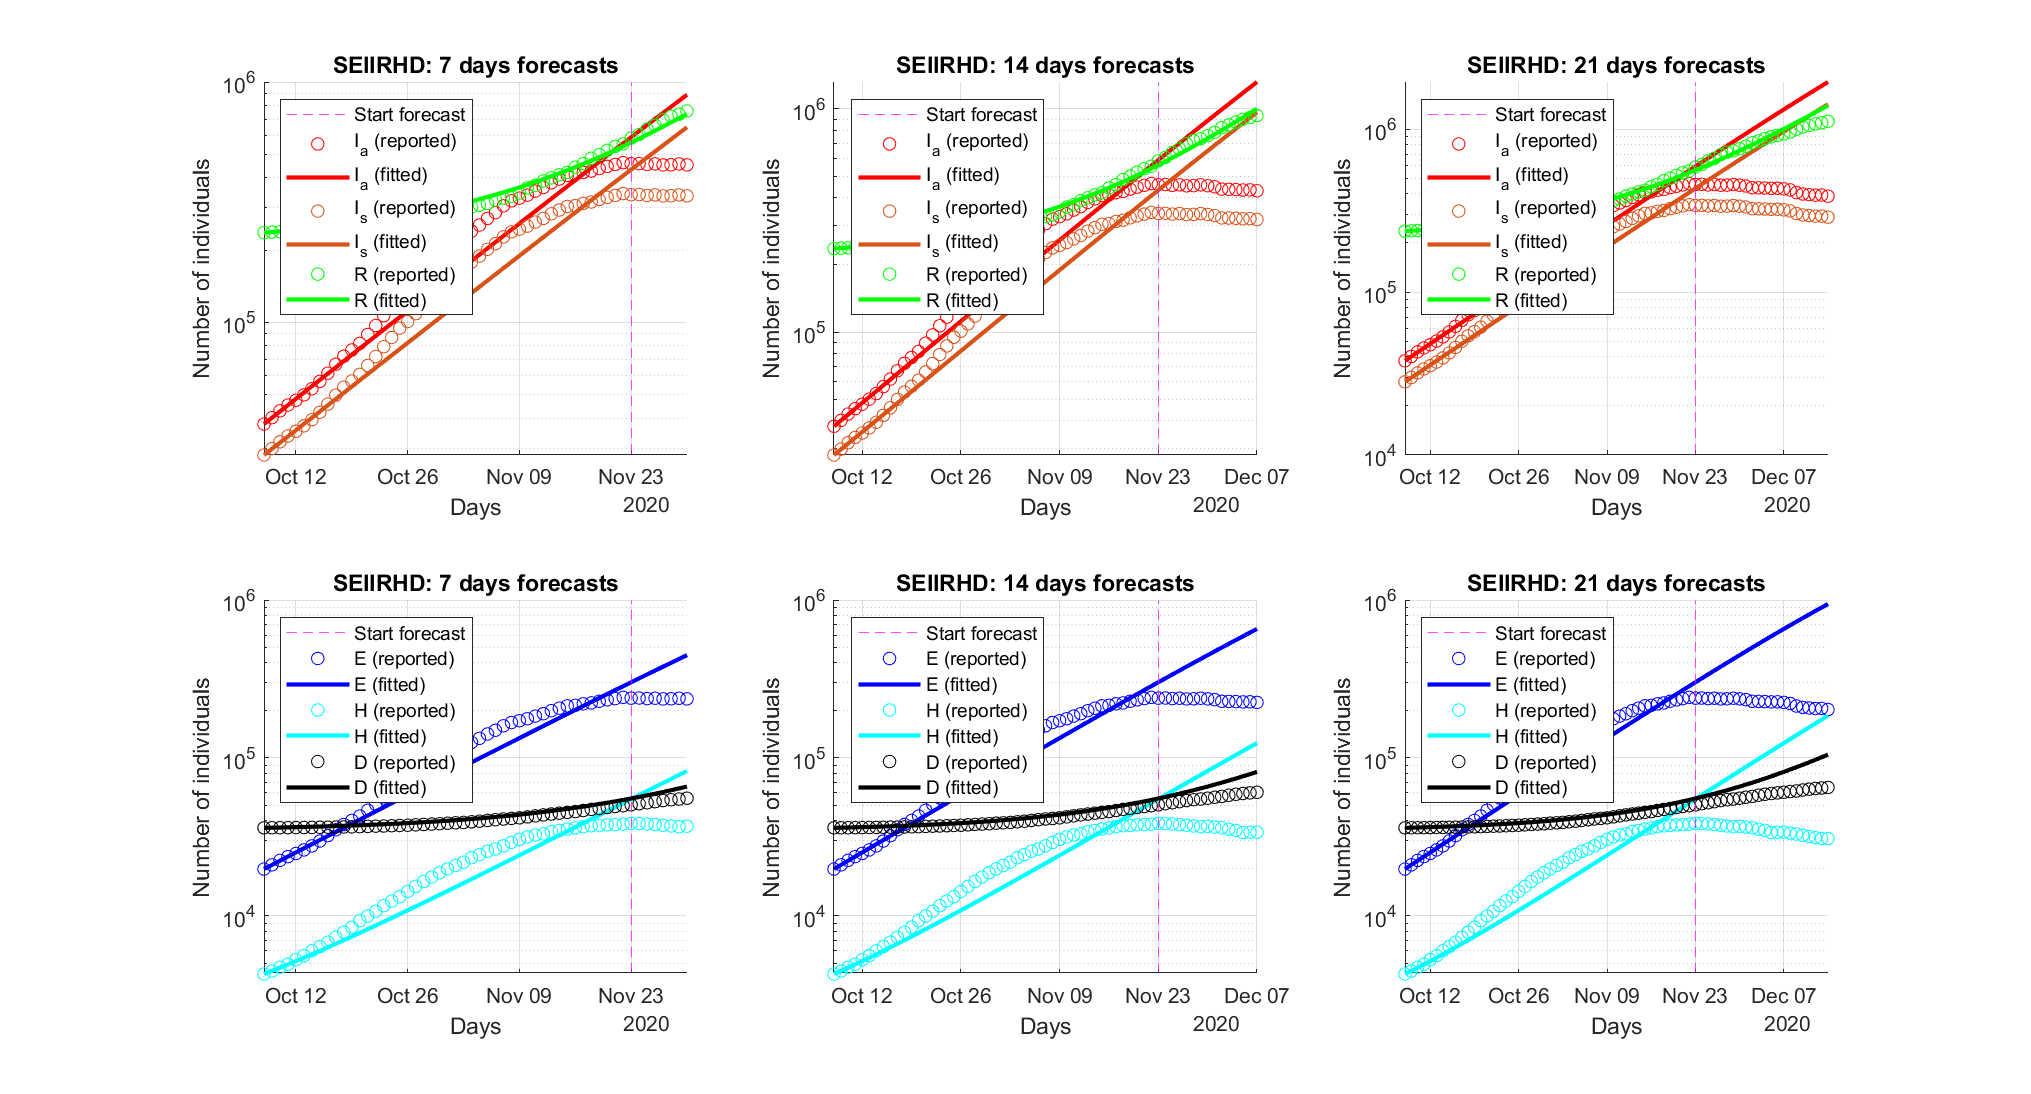
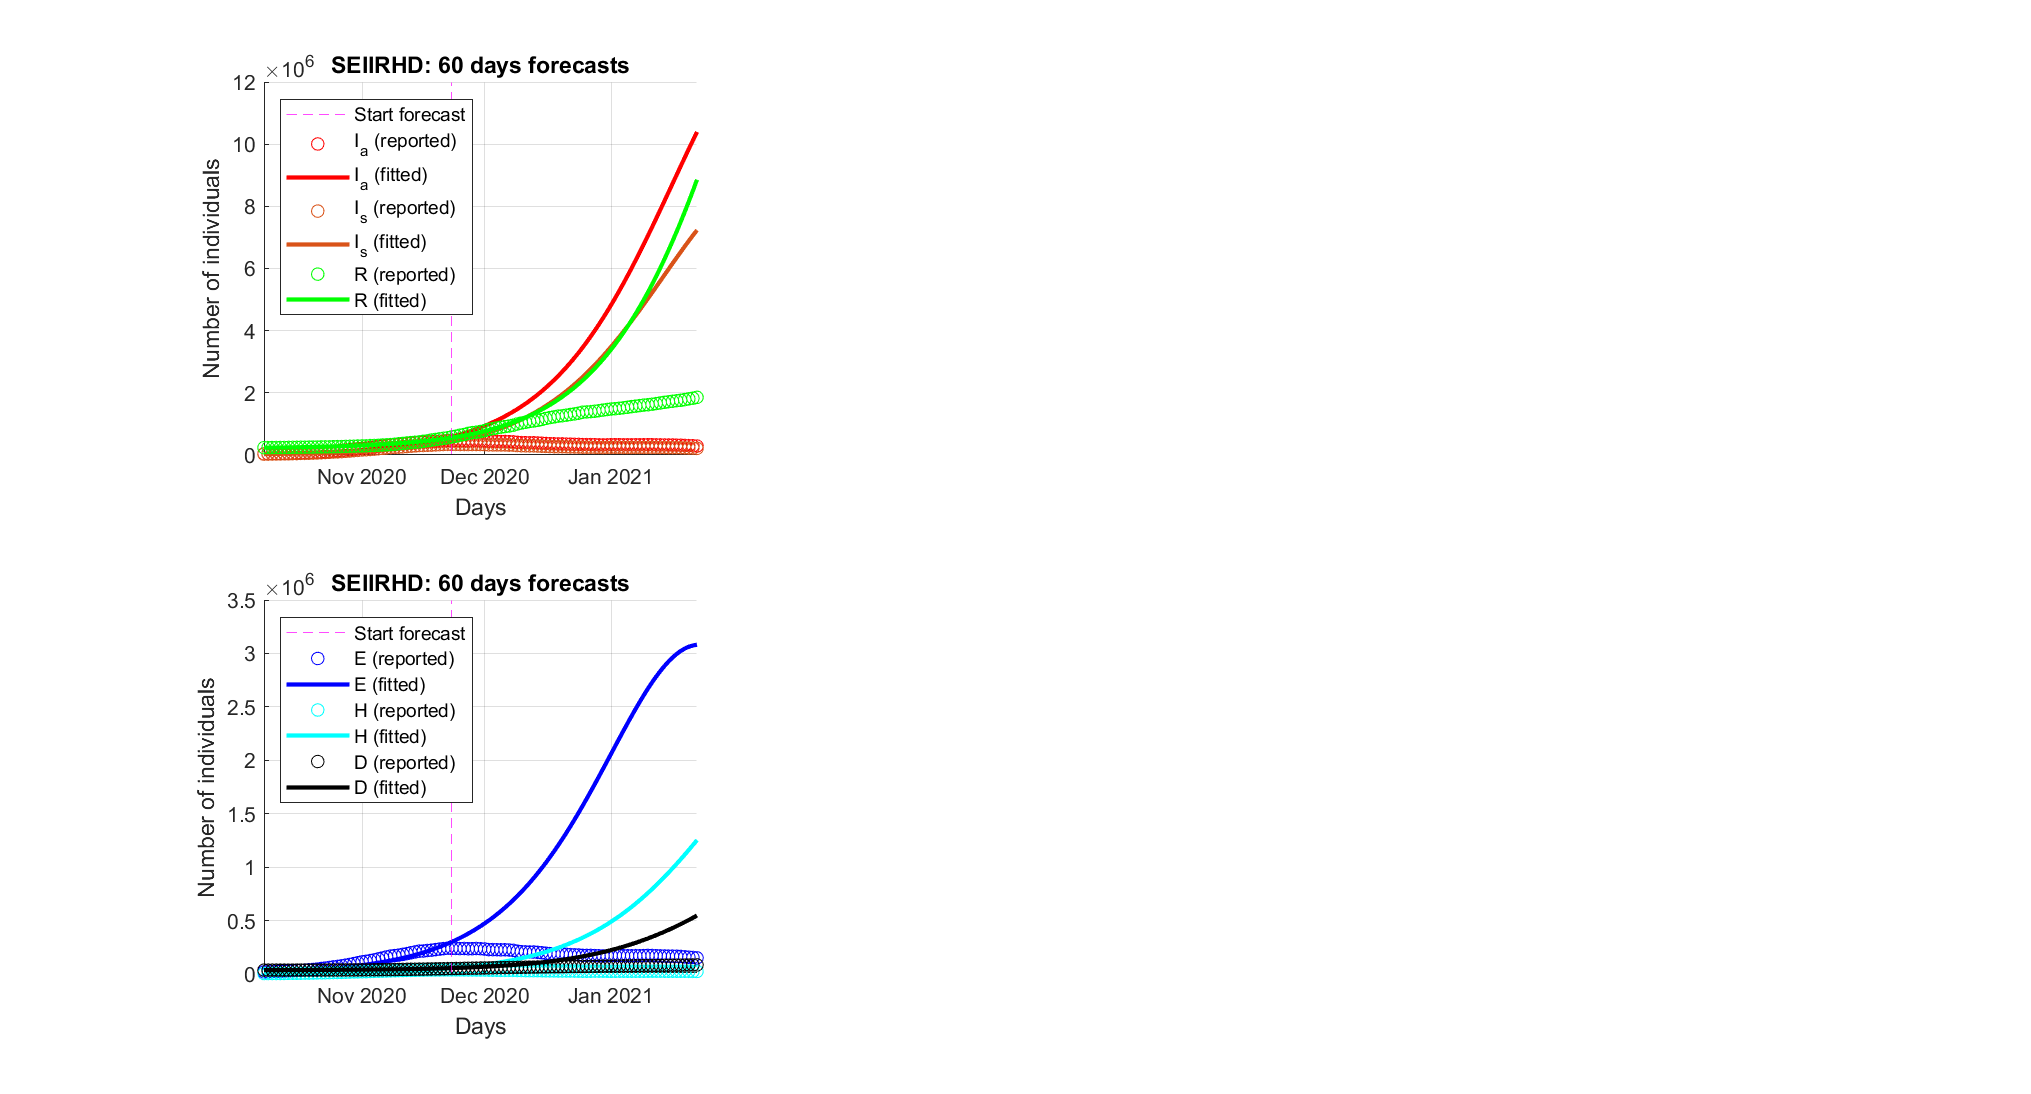
Added compute errors

diff --git a/models/SEIIRHD/compute_errors.m b/models/SEIIRHD/compute_errors.m
@@ -1,0 +1,62 @@
+function compute_errors(E, I_s, H, R, D, X)
+
+% Input 
+% E       E actual
+% I_s     I_s actual
+% H       H actual
+% R       R actual
+% D       D actual
+% X       prediction vector
+
+% Output
+%         Void function
+
+E_pred = X(:, 2); 
+Ia_pred = X(:, 3);
+Is_pred = X(:, 4);
+H_pred = X(:, 5);
+R_pred = X(:, 6);
+D_pred = X(:, 7);
+
+MAE_Is = mean(abs((I_s)-Is_pred));
+MAE_H = mean(abs((H)-H_pred));
+MAE_R = mean(abs((R)-R_pred));
+MAE_D = mean(abs((D)-D_pred));
+fprintf("--------------MAE-----------------\n");
+fprintf("MAE Is: %f \n", MAE_Is);
+fprintf("MAE H: %f \n", MAE_H);
+fprintf("MAE R: %f \n", MAE_R);
+fprintf("MAE D: %f \n", MAE_D);
+
+RMSE_Is = sqrt(mean(((I_s)-Is_pred).^2));
+RMSE_H = sqrt(mean(((H)-H_pred).^2));
+RMSE_R = sqrt(mean(((R)-R_pred).^2));
+RMSE_D = sqrt(mean(((D)-D_pred).^2));
+fprintf("--------------RMSE-----------------\n");
+fprintf("RMSE Is: %f \n", RMSE_Is);
+fprintf("RMSE H: %f \n", RMSE_H);
+fprintf("RMSE R: %f \n", RMSE_R);
+fprintf("RMSE D: %f \n", RMSE_D);
+
+TSS_Is = sum(((I_s)-mean(I_s).^2));
+TSS_H = sum(((H)-mean(H).^2));
+TSS_R = sum(((R)-mean(R).^2));
+TSS_D = sum(((D)-mean(D).^2));
+
+RSS_Is = sum(((I_s)-(Is_pred).^2));
+RSS_H = sum(((H)-(H_pred).^2));
+RSS_R = sum(((R)-(R_pred).^2));
+RSS_D = sum(((D)-(D_pred).^2));
+
+R2_Is = 1 - TSS_Is/RSS_Is;
+R2_H = 1 - TSS_H/RSS_H;
+R2_R = 1 - TSS_R/RSS_R;
+R2_D = 1 - TSS_D/RSS_D;
+
+fprintf("--------------R2-----------------\n");
+fprintf("R2 Is: %f \n", R2_Is);
+fprintf("R2 H: %f \n", R2_H);
+fprintf("R2 R: %f \n", R2_R);
+fprintf("R2 D: %f \n", R2_D);
+end
+

diff --git a/models/SEIIRHD/forecast_SEIIRHD.m b/models/SEIIRHD/forecast_SEIIRHD.m
@@ -1,8 +1,9 @@
-function forecast_SEIIRHD(timeV, X1, path)
+function forecast_SEIIRHD(timeV, X1, dates, path)
 
 % Input 
 % timeV   time vector used as x-axis
 % X1      vector containg the ODE solution 
+% dates   tove vector with all the dates
 % path    path for saving the plot obtained
 
 % Output
@@ -24,6 +25,49 @@ fprintf("Min I_a: %f, day: %d \n",minI_a1, mindayIa1);
 fprintf("Min I_s: %f, day: %d \n", minI_s1, mindayIs1);
 fprintf("----\n")
 
+t1 = find(dates=="01-Jun-2021"); 
+t2 = find(dates=="01-Sep-2021"); 
+t3 = find(dates=="01-Dec-2021"); 
+t4 = find(dates=="01-Mar-2022"); 
+t5 = find(dates=="01-Jun-2022"); 
+t6 = find(dates=="01-Sep-2022"); 
+t7 = find(dates=="01-Dec-2022");
+
+I = I_a1+I_s1 * 10^7;
+fprintf("June 2021: \n");
+fprintf("I: %f\n",I(t1));
+fprintf("H: %f\n",H1(t1));
+fprintf("D: %f\n",D1(t1));
+
+fprintf("September 2021: \n");
+fprintf("I: %f\n",I(t2));
+fprintf("H: %f\n",H1(t2));
+fprintf("D: %f\n",D1(t2));
+
+fprintf("December 2021: \n");
+fprintf("I: %f\n",I(t3));
+fprintf("H: %f\n",H1(t3));
+fprintf("D: %f\n",D1(t3));
+
+fprintf("March 2022: \n");
+fprintf("I: %f\n",I(t4));
+fprintf("H: %f\n",H1(t4));
+fprintf("D: %f\n",D1(t4));
+
+fprintf("June 2022: \n");
+fprintf("I: %f\n",I(t5));
+fprintf("H: %f\n",H1(t5));
+fprintf("D: %f\n",D1(t5));
+
+fprintf("September 2022: \n");
+fprintf("I: %f\n",I(t6));
+fprintf("H: %f\n",H1(t6));
+fprintf("D: %f\n",D1(t6));
+
+fprintf("December 2022: \n");
+fprintf("I: %f\n",I(t7));
+fprintf("H: %f\n",H1(t7));
+fprintf("D: %f\n",D1(t7));
 
 x0=100;
 y0=100;

diff --git a/experiments/simulations/SEIIRHDPhasePlane.m b/experiments/simulations/SEIIRHDPhasePlane.m
@@ -1,0 +1,42 @@
+S0=0.8;
+I0=0.2;
+beta=0.3;
+gamma=1/10;
+mu=5e-5;
+
+SEIIRHD=@(t,y)
+[-(beta_s*y(4) + beta_e*y(2)+ beta_a*y(3)) * y(1);...
+ beta*y(1)*y(2)-gamma*y(2)-mu*y(2);...
+ ];
+
+y1=linspace(0,1,14);
+y2=linspace(0,1,14);
+[x,y]=meshgrid(y1,y2);
+u=zeros(size(x));
+v=zeros(size(y));
+t=0;
+for i=1:numel(x)
+
+    Yprime=SIR(t,[x(i);y(i)]);
+    Yprime=Yprime/norm(Yprime);
+    u(i)=Yprime(1);
+    v(i)=Yprime(2);
+
+end
+quiver(x,y,u,v,'r')
+axis tight equal
+xlabel('S (susceptibles)');ylabel('I (infected)');
+title('Phase Plane SIR');
+hold on
+
+%solve ODEs
+for y10=[0:1:1]
+    for y20=[0:0.05:0.7]
+    options=odeset('MaxStep',0.1);
+    [ts,ys]=ode45(SIR,[0,4000],[y10,y20],options);
+    plot(ys(:,1),ys(:,2), 'Linewidth', 1.5)
+    hold on
+    end
+end
+saveas(gcf,"./results/simulations/SIRPhasePlane.png")
+hold off

diff --git a/experiments/simulations/ITAMarchForecast.m b/experiments/simulations/ITAMarchForecast.m
@@ -12,7 +12,7 @@ addpath('./models/SEIIRHD');
 %retrieve the data structs
 [data, dates] = getData;
 t1 = datetime(2020,02,24,0,0,0);
-t2 = datetime(2022,12,31,0,0,0);
+t2 = datetime(2025,12,31,0,0,0);
 dates = t1:t2;
 N = 60.*10^6;
 %% SEIIRHD MODEL PARAMETERS
@@ -31,7 +31,7 @@ R0 = R(t0);
 D0 = D(t0);
 S0 = N-E0-I0-R0;
 
-timeV = t0:1:t0+500;
+timeV = t0:1:t0+1200;
 %%
 p = [0.5164, 0.0884, 0.0351, ...
     0.0217, 0.0253, 0.0039, 0.0022];
@@ -44,5 +44,5 @@ X0= [S0 E0 I_a0 I_s0 H0 R0 D0];
 
 [t,x] = ode23s(@(t,x) SEIIRHD(t,x, p), timeV, X0);  
 %%
-forecast_SEIIRHD(dates(timeV), x,...
+forecast_SEIIRHD(dates(timeV), x, dates,...
     "./results/simulations/ITA/SEIIRHDMarchForecast.png")

diff --git a/experiments/january/ITA.m b/experiments/january/ITA.m
@@ -200,3 +200,12 @@ V = [p_SEIIRHD(2) 0 0; ...
 G = F*inv(V);
 R0 = eigs(G,1);
 fprintf("R0: %f\n", R0);
+
+%% COMPUTE ERRORS 
+close all
+tp = [30]; %30
+t1 = datetime(2020,02,24,0,0,0);
+t2 = datetime(2021,12,31,0,0,0);
+dates = t1:t2;
+plot_SEIIRHD(X_SEIIRHD, X0_ad_SEIIRHD, N, p_SEIIRHD, dates, t0, tf, tp, ...
+    "./results/january/ITA/errorSEIIRHD.png");

diff --git a/experiments/october/ITA.m b/experiments/october/ITA.m
@@ -204,3 +204,9 @@ close all
 tp = [7,14, 21];
 plot_SEIIRHD(X_SEIIRHD, X0_ad_SEIIRHD, N, p_SEIIRHD, dates, t0, tf, tp,...
     "./results/october/ITA/SEIIRHD_fitting.png");
+
+%% COMPUTE ERRORS 
+close all
+tp = [60];
+plot_SEIIRHD(X_SEIIRHD, X0_ad_SEIIRHD, N, p_SEIIRHD, dates, t0, tf, tp, ...
+    "./results/october/ITA/trailSEIIRHD.png");

diff --git a/models/SEIIRHD/plot_SEIIRHD.m b/models/SEIIRHD/plot_SEIIRHD.m
@@ -32,6 +32,9 @@ for i = 1:size(tp, 2)
     R_pred = X(:, 6);
     D_pred = X(:, 7);
     len_train = tf-t0;
+    
+    compute_errors(E(tf:tf+tp(i)), I_s(tf:tf+tp(i)), H(tf:tf+tp(i)),...
+    R(tf:tf+tp(i)), D(tf:tf+tp(i)), X(len_train:len_train+tp(i))*N)
 
     x0=100;
     y0=100;
